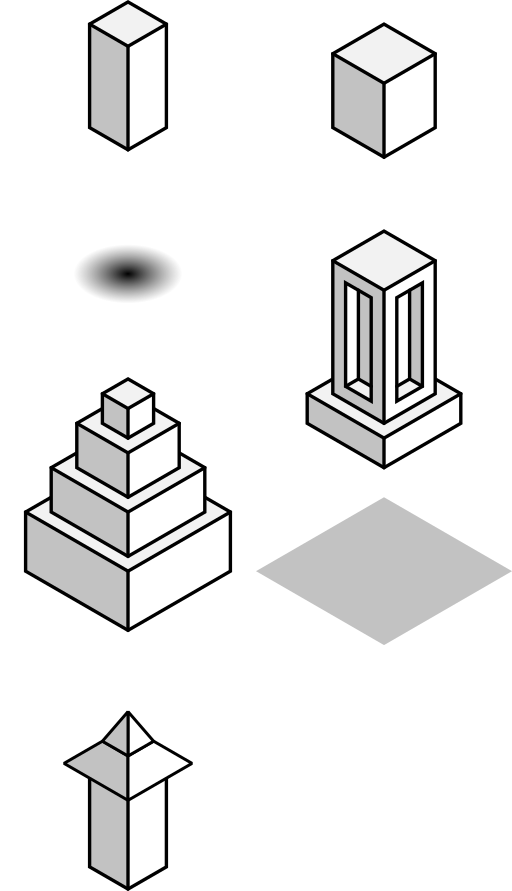
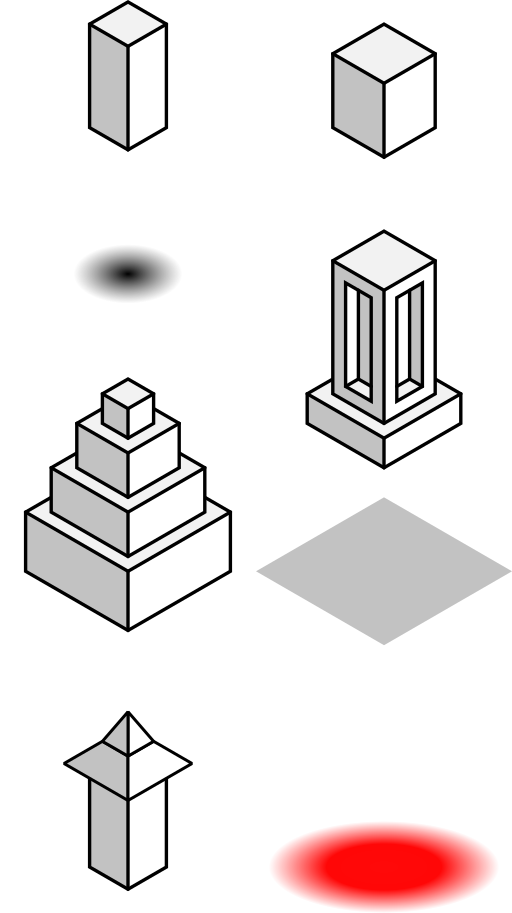
Added attacks

diff --git a/src/main/java/io/game/world/Map.java b/src/main/java/io/game/world/Map.java
@@ -14,18 +14,12 @@ import io.game.world.arrow.Arrow;
 import io.game.world.entity.AnimatedEntity;
 import io.game.world.entity.Entity;
 import io.game.world.entity.EntityAnimation;
-import io.game.world.entity.WorldEntity;
-import io.game.world.event_animations.MoveEntityAlongPathAnimation;
-import io.game.world.event_animations.RemoveEntityAnimation;
-import io.game.world.event_animations.SpawnEntityAnimation;
-import io.game.world.event_animations.VisibilityChangeAnimation;
+import io.game.world.event_animations.*;
 import io.game.world.tile.AnimatedTile;
+import io.game.world.tile.AttackMarker;
 import io.game.world.tile.Fog;
 import io.model.engine.TextureBank;
-import mudgame.controls.events.MoveEntityAlongPath;
-import mudgame.controls.events.RemoveEntity;
-import mudgame.controls.events.SpawnEntity;
-import mudgame.controls.events.VisibilityChange;
+import mudgame.controls.events.*;
 
 import java.util.*;
 
@@ -36,6 +30,7 @@ public class Map implements Animation {
     private final EntityBoardView entities;
     private final ArrayList<Position> path = new ArrayList<>();
     private Set<Position> highlightedTiles = null;
+    private Set<Position> attackMarkers = null;
     HashMap<Position, AnimatedTile> tmpTiles = new HashMap<>();
     private Animation mapAnimation;
 
@@ -54,6 +49,15 @@ public class Map implements Animation {
             highlightedTiles = null;
         else
             highlightedTiles = new HashSet<>(positions);
+    }
+
+    public void setAttackMarkers(List<Position> positions) {
+        if (positions == null)
+            attackMarkers = null;
+        else
+            attackMarkers = new HashSet<>(positions);
+
+        System.out.println(attackMarkers);
     }
 
     public AnimatedEntity entityFromID(EntityID id) {
@@ -83,6 +87,8 @@ public class Map implements Animation {
         camera.forAllVisibleTiles(
                 pos -> entities.addAll(tileFromPosition(pos).getEntities(getAnimatedEntities(), highlightedTiles, this::fog))
         );
+        if (attackMarkers != null)
+            entities.addAll(attackMarkers.stream().map(AttackMarker::new).toList());
         entities.addAll(Arrow.fromPositions(path));
         entities.addAll(entityAnimations.values().stream().flatMap(
                 animation -> animation.getEntity().withShadow().stream()
@@ -153,6 +159,13 @@ public class Map implements Animation {
 
     public Finishable animate(SpawnEntity event) {
         return mapAnimation = new SpawnEntityAnimation(this, event);
+    }
+
+    public Finishable animate(AttackEntityEvent event) {
+        return mapAnimation = new AttackEntityAnimation(this, event,
+                entities.entityPosition(event.attacker()),
+                entities.entityPosition(event.attacked())
+        );
     }
 
     @Override

diff --git a/src/main/java/io/game/world/controller/states/UnitSelected.java b/src/main/java/io/game/world/controller/states/UnitSelected.java
@@ -19,6 +19,9 @@ public class UnitSelected extends WorldState {
                         .getPositions()
                         .stream()
                         .toList());
+        state.map().setAttackMarkers(state.attackManager().attackableEntities(selectedUnit).stream().map(
+                entity -> state.entities().entityPosition(entity)
+        ).toList());
         state.hud().clear();
     }
 
@@ -34,15 +37,18 @@ public class UnitSelected extends WorldState {
         if (entityAnimated(entity))
             return;
         state.map().putDown(selectedUnit);
+        if (state.attackManager().attackableEntities(selectedUnit).contains(entity)) {
+            state.controls().attackEntity(selectedUnit, entity);
+            change(new Normal(state));
+            return;
+        }
         if (entity.equals(selectedUnit)) {
             change(new Normal(state));
         } else {
-            if (state.pathfinder().reachablePositions(entity).getPositions().isEmpty())
-                state.map().refuse(entity);
-            else {
+            if (hasAnyMoves(entity)) {
                 state.map().pickUp(entity);
                 change(new UnitSelected(state, entity));
-            }
+            } else state.map().refuse(entity);
         }
     }
 
@@ -68,6 +74,11 @@ public class UnitSelected extends WorldState {
     public void onNextTurn(NextTurn e) {
         if (state.myID().equals(e.currentPlayer()))
             state.hud().setEndTurnEnabled(true);
+    }
+
+    @Override
+    public void onAttackEntity(AttackEntityEvent e) {
+
     }
 
     @Override

diff --git a/src/main/java/io/game/world/event_animations/AttackEntityAnimation.java b/src/main/java/io/game/world/event_animations/AttackEntityAnimation.java
@@ -1,0 +1,43 @@
+package io.game.world.event_animations;
+
+import core.model.Position;
+import io.animation.Animation;
+import io.animation.Finishable;
+import io.game.world.Map;
+import io.game.world.entity.JumpTo;
+import io.game.world.entity.Shake;
+import mudgame.controls.events.AttackEntityEvent;
+
+public class AttackEntityAnimation implements Animation {
+
+    private final AttackEntityEvent event;
+    private final Map map;
+
+    private final Position from, to;
+
+    private Finishable attack;
+    private Finishable retreat;
+
+    public AttackEntityAnimation(Map map, AttackEntityEvent event, Position from, Position to) {
+        this.event = event;
+        this.map = map;
+        this.from = from;
+        this.to = to;
+        attack = map.entityFromID(event.attacker()).setAnimation(new JumpTo(to));
+    }
+
+    @Override
+    public void update(float deltaTime) {
+        if (!attack.finished()) return;
+        if (retreat == null)
+            retreat = Finishable.all(
+                    map.entityFromID(event.attacker()).setAnimation(new JumpTo(from)),
+                    map.entityFromID(event.attacked()).setAnimation(new Shake())
+            );
+    }
+
+    @Override
+    public boolean finished() {
+        return retreat != null && retreat.finished();
+    }
+}

diff --git a/src/main/java/io/game/world/controller/WorldController.java b/src/main/java/io/game/world/controller/WorldController.java
@@ -13,6 +13,7 @@ import io.animation.FutureExecutor;
 import io.game.ui.HUD;
 import io.game.world.Map;
 import io.game.world.controller.states.Normal;
+import mudgame.client.PlayerAttackManager;
 import mudgame.controls.Controls;
 import mudgame.controls.events.*;
 
@@ -30,10 +31,11 @@ public class WorldController implements WorldBehavior {
             TerrainView terrain,
             Pathfinder pathfinder,
             PlayerSpawnManager spawnManager,
+            PlayerAttackManager attackManager,
             Controls controls
     ) {
         state = new Normal(
-                new CommonState(map, hud, myID, terrain, entities, pathfinder, spawnManager, controls,
+                new CommonState(map, hud, myID, terrain, entities, pathfinder, spawnManager, attackManager, controls,
                         new HashSet<>()));
         state.init(this);
     }
@@ -95,6 +97,11 @@ public class WorldController implements WorldBehavior {
     @Override
     public void onNextTurn(NextTurn e) {
         state.onNextTurn(e);
+    }
+
+    @Override
+    public void onAttackEntity(AttackEntityEvent e) {
+        state.onAttackEntity(e);
     }
 
     @Override

diff --git a/src/main/java/io/game/world/controller/states/Normal.java b/src/main/java/io/game/world/controller/states/Normal.java
@@ -15,6 +15,7 @@ public class Normal extends WorldState {
         super(state);
         state.map().setPath(List.of());
         state.map().setHighlightedTiles(null);
+        state.map().setAttackMarkers(null);
         state.hud().clear();
     }
 
@@ -26,12 +27,10 @@ public class Normal extends WorldState {
     public void onEntityClick(EntityID entity) {
         if (entityAnimated(entity))
             return;
-        if (state.pathfinder().reachablePositions(entity).getPositions().isEmpty())
-            state.map().refuse(entity);
-        else {
+        if (hasAnyMoves(entity)) {
             state.map().pickUp(entity);
             change(new UnitSelected(state, entity));
-        }
+        } else state.map().refuse(entity);
     }
 
     @Override
@@ -52,6 +51,11 @@ public class Normal extends WorldState {
     public void onNextTurn(NextTurn e) {
         if (state.myID().equals(e.currentPlayer()))
             state.hud().setEndTurnEnabled(true);
+    }
+
+    @Override
+    public void onAttackEntity(AttackEntityEvent e) {
+
     }
 
     @Override

diff --git a/src/main/java/io/game/world/entity/JumpTo.java b/src/main/java/io/game/world/entity/JumpTo.java
@@ -1,0 +1,45 @@
+package io.game.world.entity;
+
+import core.model.Position;
+import io.game.WorldPosition;
+
+public class JumpTo extends EntityAnimation {
+    private static final float G = 20;
+    private static final float SPEED = 3;
+
+    private WorldPosition start;
+
+    private float dx, dy;
+    private final Position destination;
+    private float totalTime = 0f;
+
+    public JumpTo(Position destination) {
+        this.destination = destination;
+    }
+
+
+    @Override
+    public void update(float deltaTime) {
+        totalTime += deltaTime;
+        float t = totalTime * SPEED;
+        getEntity().position = new WorldPosition(
+                start.x() + t * dx,
+                start.y() + t * dy,
+                (t - 1) * (-G * t / SPEED - start.z())
+        );
+
+    }
+
+    @Override
+    public boolean finished() {
+        return totalTime >= 1 / SPEED;
+    }
+
+    @Override
+    void init() {
+        start = getEntity().position;
+        dx = destination.x() - start.x();
+        dy = destination.y() - start.y();
+
+    }
+}

diff --git a/src/main/java/io/game/world/controller/states/EntityTypeSelected.java b/src/main/java/io/game/world/controller/states/EntityTypeSelected.java
@@ -31,12 +31,10 @@ public class EntityTypeSelected extends WorldState {
     @Override
     public void onEntityClick(EntityID entity) {
         if (!entityAnimated(entity)) {
-            if (state.pathfinder().reachablePositions(entity).getPositions().isEmpty())
-                state.map().refuse(entity);
-            else {
+            if (hasAnyMoves(entity)) {
                 state.map().pickUp(entity);
                 change(new UnitSelected(state, entity));
-            }
+            } else state.map().refuse(entity);
         }
     }
 
@@ -58,6 +56,11 @@ public class EntityTypeSelected extends WorldState {
     public void onNextTurn(NextTurn e) {
         if (state.myID().equals(e.currentPlayer()))
             state.hud().setEndTurnEnabled(true);
+    }
+
+    @Override
+    public void onAttackEntity(AttackEntityEvent e) {
+
     }
 
     @Override

diff --git a/src/main/java/gdx_io/TextureBank.java b/src/main/java/gdx_io/TextureBank.java
@@ -54,6 +54,7 @@ public class TextureBank implements io.model.engine.TextureBank {
         textures.put(io.model.textures.Texture.TILE_HIGHLIGHT, new TextureRegion(tiles, 512, 0, 256, 148));
         textures.put(io.model.textures.Texture.PAWN, new TextureRegion(units, 88, 0, 80, 152));
         textures.put(io.model.textures.Texture.SHADOW, new TextureRegion(units, 0, 200, 256, 149));
+        textures.put(io.model.textures.Texture.ATTACK_MARKER, new TextureRegion(units, 269, 819, 230, 94));
         textures.put(io.model.textures.Texture.BASE, new TextureRegion(units, 24, 377, 208, 255));
         textures.put(io.model.textures.Texture.WARRIOR, new TextureRegion(units, 331, 22, 106, 137));
         textures.put(io.model.textures.Texture.MARSH_WIGGLE, new TextureRegion(units, 63, 711, 130, 180));

diff --git a/src/main/java/io/game/GameView.java b/src/main/java/io/game/GameView.java
@@ -98,6 +98,7 @@ public class GameView extends SimpleView {
                 me.getCore().terrain(),
                 me.getCore().pathfinder(),
                 me.getCore().spawnManager(),
+                me.getCore().playerAttackManager(),
                 me.getControls()
         );
     }
@@ -116,6 +117,9 @@ public class GameView extends SimpleView {
         } else if (event instanceof RemoveEntity e) {
             eventAnimation = map.animate(e);
             worldController.onRemoveEntity(e);
+        } else if (event instanceof AttackEntityEvent e) {
+            eventAnimation = map.animate(e);
+            worldController.onAttackEntity(e);
         } else if (event instanceof NextTurn e) {
             worldController.onNextTurn(e);
         }

diff --git a/src/main/java/io/game/world/tile/Tile.java b/src/main/java/io/game/world/tile/Tile.java
@@ -2,15 +2,15 @@ package io.game.world.tile;
 
 import core.model.Position;
 import io.game.WorldPosition;
+import io.game.world.WorldEntity;
 import io.game.world.WorldTexture;
-import io.game.world.entity.WorldEntity;
 
 public class Tile extends WorldEntity {
     public static final float ASPECT_RATIO = 256.0f / 148f;
     private final Position gamePosition;
 
     public Tile(Position position, WorldTexture texture) {
-        super(WorldPosition.from(position), texture, -1);
+        super(WorldPosition.from(position), texture, -2);
         this.gamePosition = position;
     }
 

diff --git a/src/main/java/io/game/world/controller/WorldState.java b/src/main/java/io/game/world/controller/WorldState.java
@@ -19,6 +19,11 @@ public abstract class WorldState implements WorldBehavior {
         this.controller.setState(state);
     }
 
+    protected boolean hasAnyMoves(EntityID entity) {
+        return !state.pathfinder().reachablePositions(entity).getPositions().isEmpty()
+                || !state.attackManager().attackableEntities(entity).isEmpty();
+    }
+
     protected boolean entityAnimated(EntityID entity) {
         return state.animatedEvents().stream().anyMatch(event -> {
             if (!(event instanceof MoveEntityAlongPath))

diff --git a/src/main/java/io/game/world/controller/CommonState.java b/src/main/java/io/game/world/controller/CommonState.java
@@ -7,6 +7,7 @@ import core.spawning.PlayerSpawnManager;
 import core.terrain.TerrainView;
 import io.game.ui.HUD;
 import io.game.world.Map;
+import mudgame.client.PlayerAttackManager;
 import mudgame.controls.Controls;
 import mudgame.controls.events.Event;
 
@@ -20,6 +21,7 @@ public record CommonState(
         EntityBoardView entities,
         Pathfinder pathfinder,
         PlayerSpawnManager spawnManager,
+        PlayerAttackManager attackManager,
         Controls controls,
         HashSet<Event> animatedEvents
 ) {
